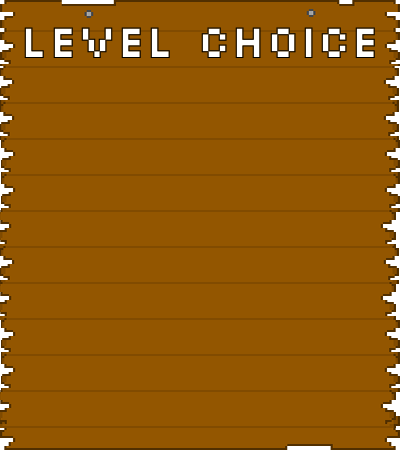
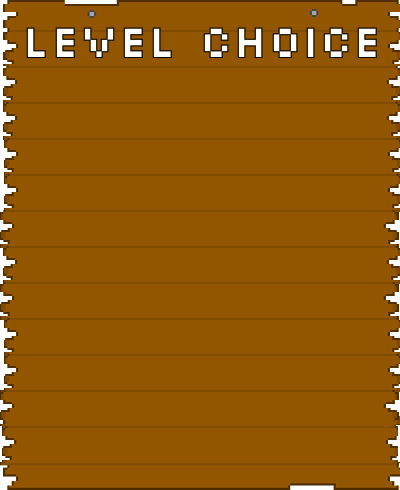
ㅎㅎㅎㅎㅎㅎㅎㅎㅎㅎㅎㅎㅎㅎㅎㅎㅎㅎㅎㅎㅎ좀바궜엉 ㅎ레벨초이스

Changed region(s): [[0.48, 0.0, 1.0, 1.0], [0.0, 0.0, 0.45, 1.0], [0.72, 0.9644, 0.84, 1.0]]

diff --git a/src/panel/PanelManager.java b/src/panel/PanelManager.java
@@ -50,7 +50,7 @@ public class PanelManager {
 		home = new HomePanel(this);
 		login = new LoginPanel(262, 350, 500, 300, this);
 		signup = new SignupPanel(262, 350, 500, 300, this);
-		levelChoice = new LevelChoicePanel(310, 140, 400, 450, this);
+		levelChoice = new LevelChoicePanel(310, 100, 400, 490, this);
 		menu = new MenuPanel(this);
 		wordSetting = new WordSettingPanel(this);
 		ranking = new RankingPanel(this);
